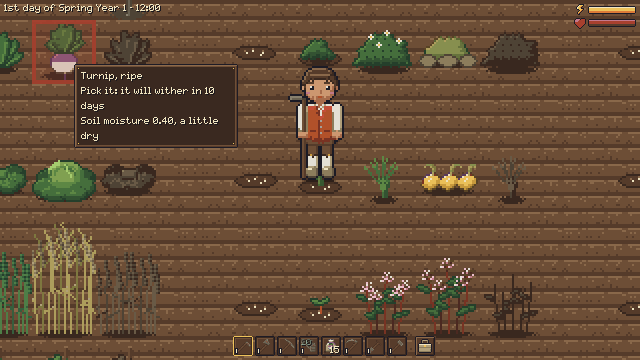
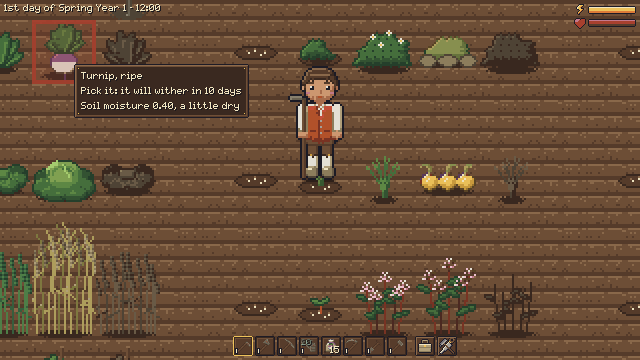
The box about a crop or campfire shows for the tile the player faces too, not only under the mouse, and is wider so its lines don't break (WorldHoverText, #2)

diff --git a/handbook/farming.md b/handbook/farming.md
@@ -38,9 +38,9 @@ perfect weather; expect longer.
 
 - A seed's tooltip says what its crop likes: cool or warm weather, low, middle or high water need,
   hardy or tender against wind, and about how many days it takes in good weather.
-- Put the mouse over a crop to see how it is doing: growing, ripe (and in how many days it will
-  wither), or dead; what hurts or slows it today (frost, cold, heat, dry soil, too little sun,
-  wind); how damaged it is; and the soil's real moisture. The rain wets only the surface for an
+- Put the mouse over a crop, or face it, to see how it is doing: growing, ripe (and in how many days
+  it will wither), or dead; what hurts or slows it today (frost, cold, heat, dry soil, too little
+  sun, wind); how damaged it is; and the soil's real moisture. The rain wets only the surface for an
   hour, so trust this number, not the soil's colour.
 
   ![The box over a ripe turnip: its state, when it withers and the soil's moisture](../docs/screenshots/crop-state.png)

diff --git a/design/farming/crops.md b/design/farming/crops.md
@@ -123,7 +123,8 @@
     from `water_high_from` high), wind hardy or tender (stands less than `tender_below_wind`),
     and about how many days it takes in perfect weather (and again, for a crop that fruits again).
     The thresholds are in `[farming]`.
-    **Looking at a crop** (mouse over it, outdoors: the hover box of the buildings, `GameState.object_text_at`)
+    **Looking at a crop** (mouse over it or facing it, outdoors: the hover box of the buildings,
+    `WorldHoverText`, `GameState.object_text_at`; the user, 2026-11-14)
     says its name and state in a few words: growing, ripe (and in how many days it withers), or
     dead; what hurts it today (frost, dry soil, too little sun, wind) or slows it (cold, heat, too little
     sun, dry soil: less than a good day's growth); how many more bad days kill it, if it is damaged;
